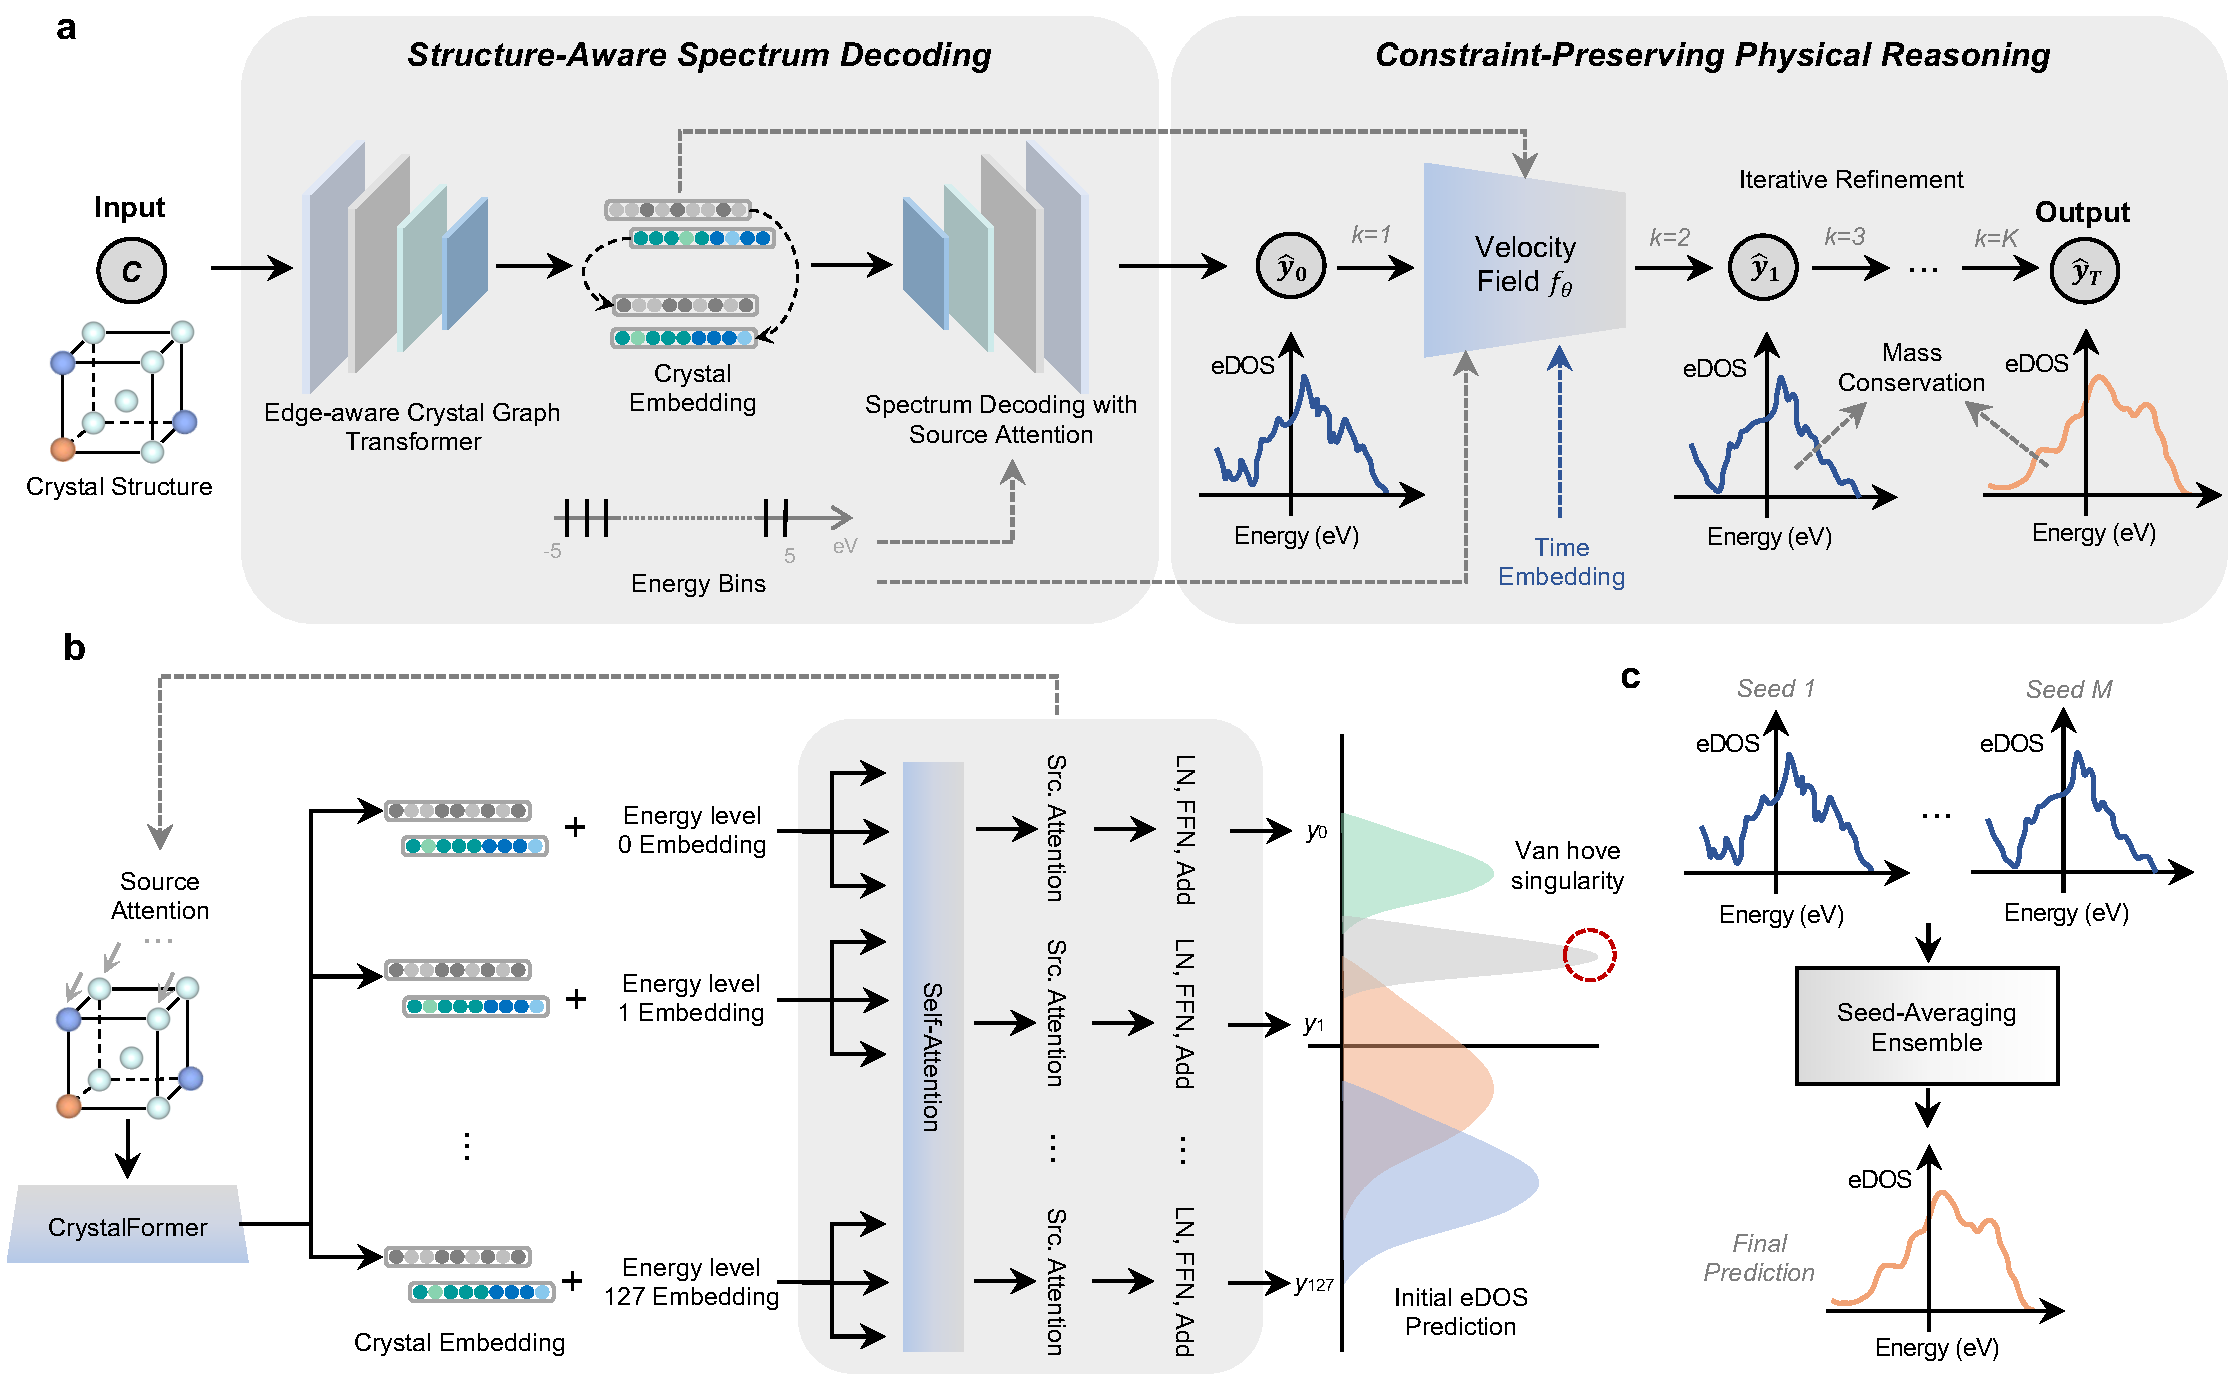
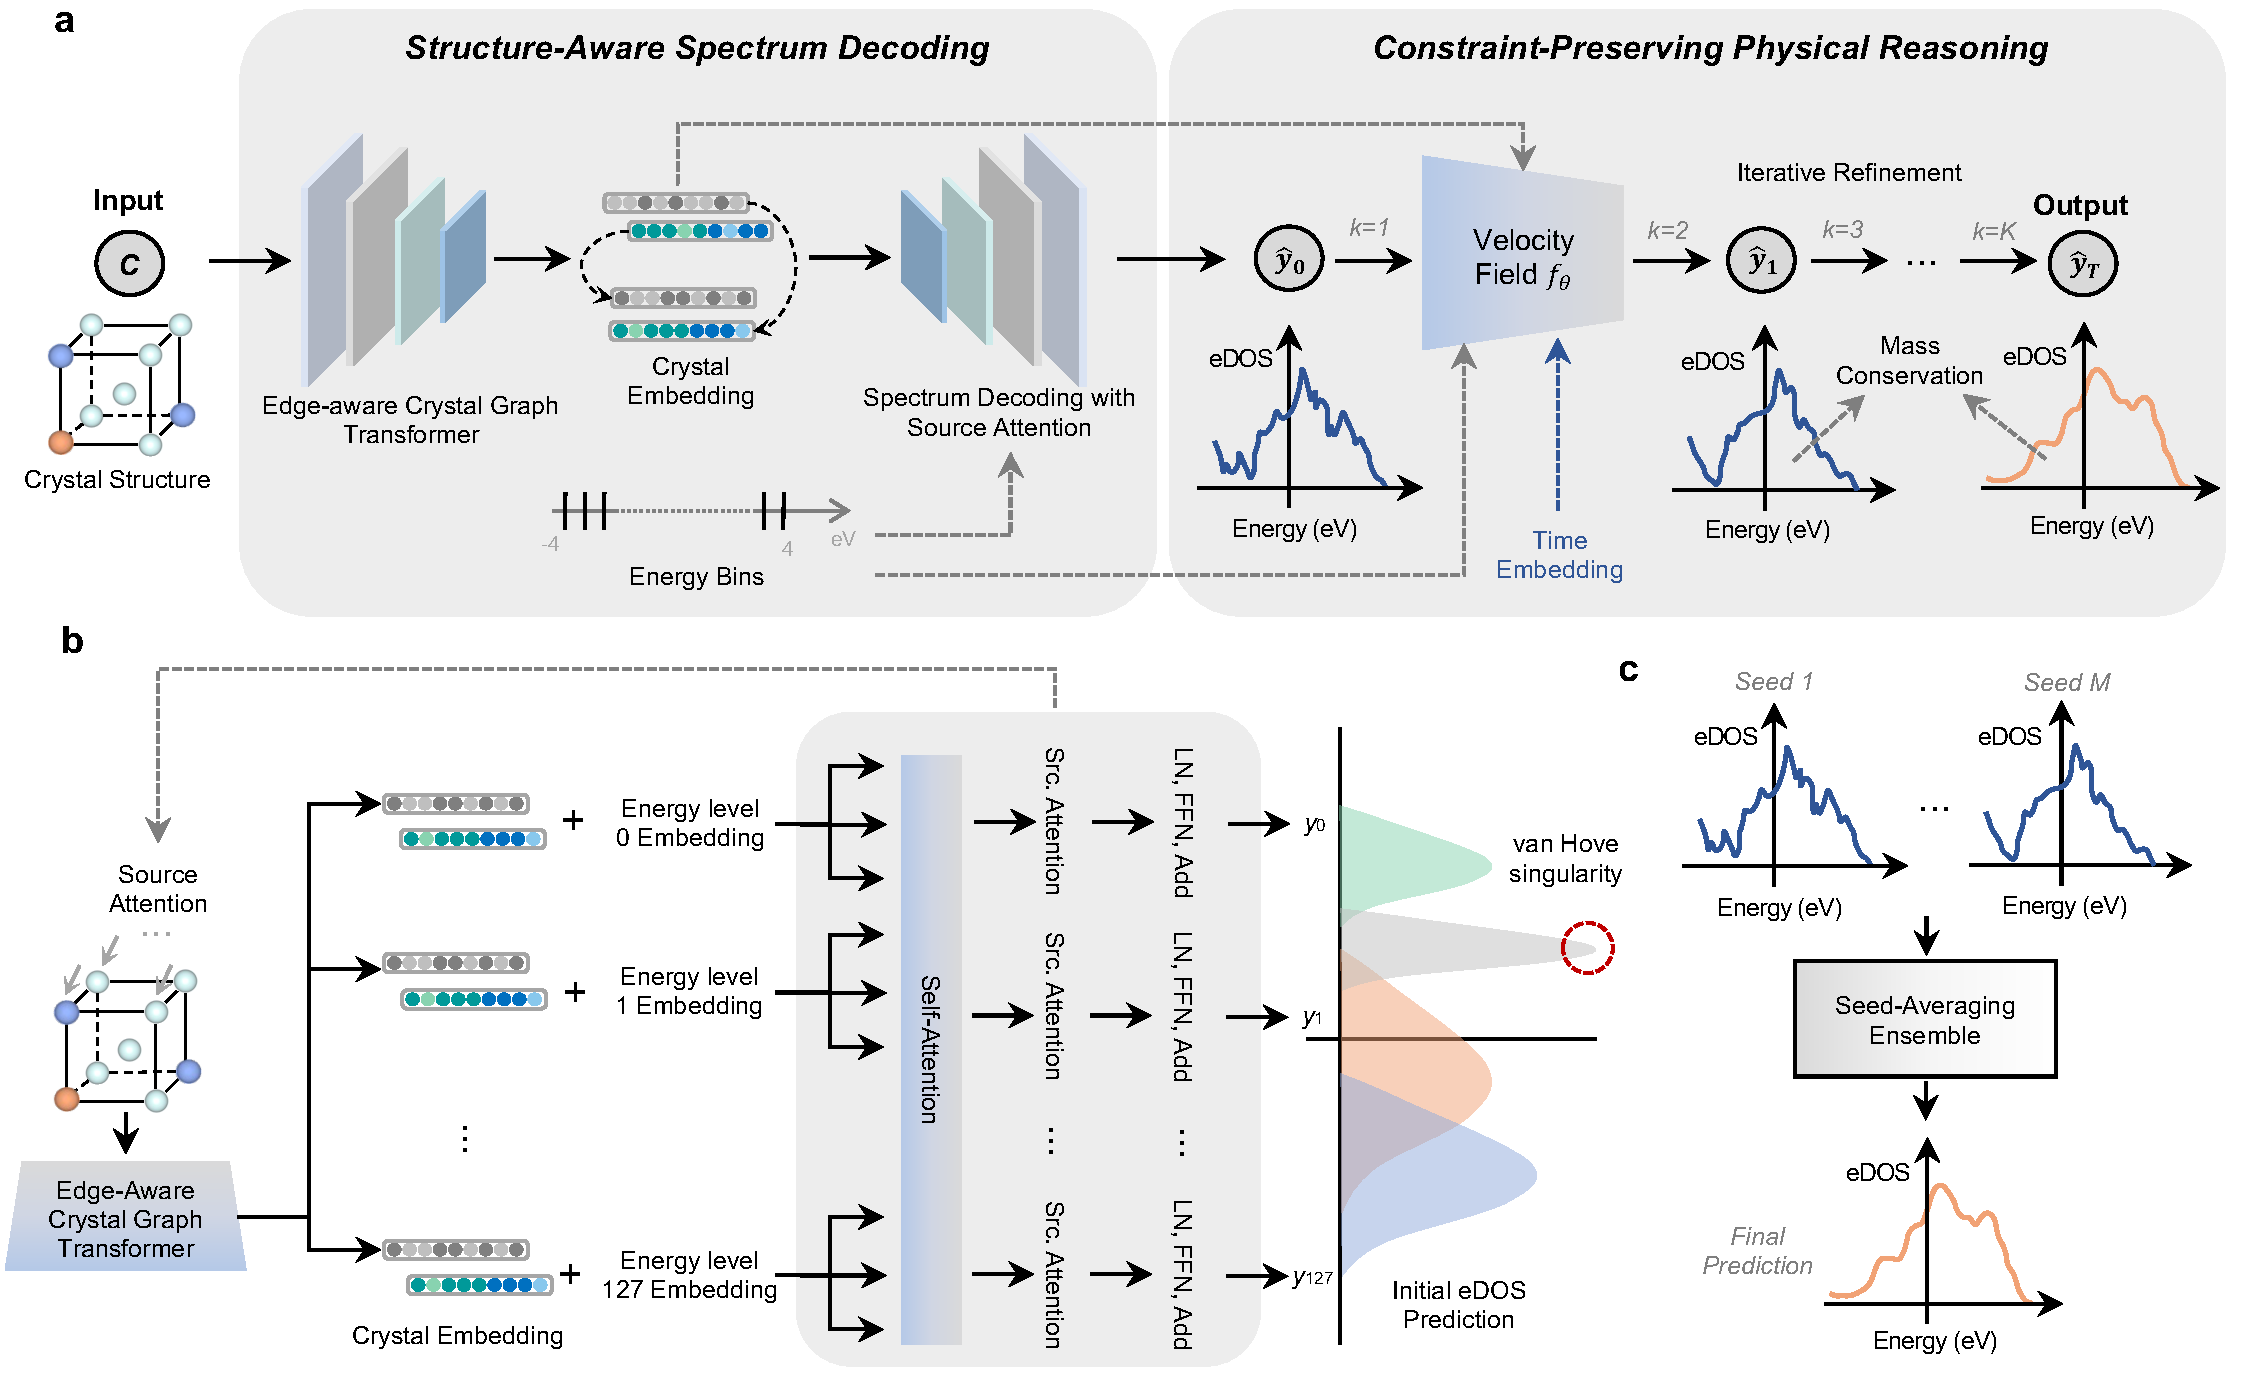
Sync to revised paper; add interactive 3D crystal-structure viewer
Numbers / figures (rebuilt manuscript):
- At a glance: VB-gap identification precision 0.915 -> 0.904
  (Table tab:vb_summary); VB-gap discovery MCC +48% -> +18.6%
  (0.434 vs Mat2Spec 0.366, the paper's stated relative gain).
- Re-rendered Figure 1 (architecture) and Figure 3 (VB-gap discovery)
  from the updated source PDFs at 300 dpi.

3D structure viewer (3Dmol.js):
- Interactive demo: each eDOS/phDOS entry now shows its crystal beside
  the spectrum (two-column viewer); the panel auto-hides on case-study
  tabs that carry no structure, so the DOS plot spans full width.
- "Try it on your structure": uploaded CIF/POSCAR is rendered in 3D
  immediately on selection, alongside the predicted DOS.
- Structures embedded in data/structures.js (window.DDR_STRUCTURES,
  148 CIFs, 153 KB) so the viewer works offline (file://), matching
  the no-fetch design of data.js; prepare_data.py emits it.

diff --git a/assets/app.js b/assets/app.js
@@ -154,6 +154,76 @@ function renderPlot(m) {
   Plotly.react(el.plot, traces, layout, config);
 }
 
+/* ---------- 3D crystal structure (3Dmol) ----------
+ * Structures are embedded in data/structures.js (window.DDR_STRUCTURES, keyed
+ * by material id = mp-id) so the viewer works offline (file://), matching the
+ * no-fetch design of data.js. Only the eDOS/phDOS benchmark entries carry a
+ * CIF; case-study tabs have none, so the structure panel is hidden for them. */
+const STRUCTURES = (typeof window !== "undefined" && window.DDR_STRUCTURES) || {};
+let demoViewer = null;
+let uploadViewer = null;
+
+function has3Dmol() { return typeof window !== "undefined" && !!window.$3Dmol; }
+
+function newViewer(host) {
+  return window.$3Dmol.createViewer(host, { backgroundColor: "white", antialias: true });
+}
+
+function styleCrystal(viewer) {
+  viewer.setStyle({}, { sphere: { scale: 0.33 }, stick: { radius: 0.14 } });
+  try { viewer.addUnitCell(); } catch (_) { /* no cell params */ }
+  viewer.zoomTo();
+  viewer.zoom(1.1);
+  viewer.render();
+  viewer.resize();
+}
+
+// Load `text` (CIF/VASP) into a viewer bound to `host`. Returns the viewer, or
+// null with an empty-state message painted into host. `reuse` is the viewer to
+// clear and reuse (its canvas stays in host); pass null to create a fresh one.
+function loadStructure(host, text, format, reuse, emptyMsg) {
+  if (!host) return null;
+  if (!has3Dmol() || !text) {
+    host.innerHTML = `<div class="struct-empty">${!has3Dmol() ? "3D viewer failed to load." : (emptyMsg || "3D structure not available for this entry.")}</div>`;
+    return null;
+  }
+  let viewer = reuse;
+  if (viewer) { viewer.clear(); }
+  else { host.innerHTML = ""; viewer = newViewer(host); }
+
+  const tryFormats = format === "vasp" ? ["vasp", "cif"] : ["cif", "vasp"];
+  let ok = false;
+  for (const fmt of tryFormats) {
+    viewer.clear();
+    let model = null;
+    try { model = viewer.addModel(text, fmt); } catch (_) { model = null; }
+    const atoms = model ? model.selectedAtoms({}) : [];
+    if (atoms.length) { ok = true; break; }
+  }
+  if (!ok) {
+    host.innerHTML = `<div class="struct-empty">Couldn't parse this structure for preview.</div>`;
+    return null;
+  }
+  styleCrystal(viewer);
+  return viewer;
+}
+
+function showDemoStructure(m) {
+  const host = document.getElementById("struct-view");
+  const cap = document.getElementById("struct-cap");
+  if (!host) return;
+  const cif = m && STRUCTURES[m.id];
+  demoViewer = loadStructure(host, cif, "cif", demoViewer, "3D structure not bundled for this case study.");
+  if (cap) cap.style.visibility = demoViewer ? "visible" : "hidden";
+}
+
+function applyStructLayout() {
+  const body = document.querySelector(".viewer-body");
+  if (!body) return;
+  const has = dataset().materials.some((m) => STRUCTURES[m.id]);
+  body.classList.toggle("has-struct", has);
+}
+
 /* ---------- meta ---------- */
 
 function mpLink(m) {
@@ -192,6 +262,7 @@ function select(id) {
   if (!m) return;
   renderMeta(m);
   renderPlot(m);
+  showDemoStructure(m);
   el.list.querySelectorAll(".mat-item").forEach((b) => {
     const on = b.dataset.id === id;
     b.classList.toggle("is-active", on);
@@ -231,6 +302,7 @@ function defaultSelection() {
 }
 
 function refresh() {
+  applyStructLayout();
   renderList();
   const id = defaultSelection();
   if (id) select(id);
@@ -262,6 +334,36 @@ function setCtaLink(elm, url, labelText) {
 }
 
 /* ---------- upload & predict ---------- */
+
+function readFileText(file) {
+  return new Promise((resolve, reject) => {
+    const r = new FileReader();
+    r.onload = () => resolve(r.result);
+    r.onerror = () => reject(r.error || new Error("read failed"));
+    r.readAsText(file);
+  });
+}
+
+// Guess 3Dmol format from filename/content (CIF vs VASP POSCAR/CONTCAR).
+function guessFormat(name, text) {
+  const n = (name || "").toLowerCase();
+  if (n.endsWith(".cif") || /_cell_length|_atom_site/.test(text)) return "cif";
+  if (n.endsWith(".vasp") || n.endsWith(".poscar") || /poscar|contcar/.test(n)) return "vasp";
+  const lines = (text || "").split(/\r?\n/);
+  if (lines.length > 7 && /^\s*[-+]?\d*\.?\d+\s*$/.test(lines[1] || "")) return "vasp"; // scale on line 2
+  return "cif";
+}
+
+async function showUploadStructure(file) {
+  const wrap = document.getElementById("upload-struct-wrap");
+  const host = document.getElementById("upload-struct");
+  if (!wrap || !host) return;
+  if (!file) { wrap.hidden = true; return; }
+  wrap.hidden = false;
+  let text;
+  try { text = await readFileText(file); } catch (_) { wrap.hidden = true; return; }
+  uploadViewer = loadStructure(host, text, guessFormat(file.name, text), uploadViewer);
+}
 
 function plotUpload(data) {
   const node = document.getElementById("upload-plot");
@@ -305,6 +407,8 @@ function initUpload() {
     fileLabel.textContent = file ? file.name : "";
     btn.disabled = !(file && PREDICT_API);
     if (file && !PREDICT_API) setStatus(`Selected ${file.name} — endpoint not connected yet.`, "muted");
+    plot.hidden = true;            // clear any previous prediction
+    showUploadStructure(file);     // immediate 3D preview of the uploaded crystal
   }
 
   dz.addEventListener("click", () => input.click());
@@ -381,6 +485,15 @@ function init() {
   state.kind = (wanted && data.datasets[wanted]) ? wanted : data.order[0];
   setTabUI(state.kind);
   refresh();
+
+  let resizeTimer = null;
+  window.addEventListener("resize", () => {
+    clearTimeout(resizeTimer);
+    resizeTimer = setTimeout(() => {
+      if (demoViewer) try { demoViewer.resize(); } catch (_) {}
+      if (uploadViewer) try { uploadViewer.resize(); } catch (_) {}
+    }, 150);
+  });
 }
 
 document.addEventListener("DOMContentLoaded", init);

diff --git a/assets/styles.css b/assets/styles.css
@@ -242,6 +242,32 @@ h1, h2, h3 { line-height: 1.2; letter-spacing: -0.01em; }
 .mat-meta { margin: 2px 0 0; color: var(--muted); font-size: 0.9rem; }
 .mat-meta a { font-weight: 600; }
 .plot { width: 100%; height: 440px; }
+
+/* DOS plot + 3D structure side by side; collapses to one column when narrow
+   or when the active dataset carries no structures (.has-struct toggled in JS). */
+.viewer-body { display: grid; grid-template-columns: 1fr; gap: 18px; align-items: start; }
+.viewer-body.has-struct { grid-template-columns: minmax(0, 1.55fr) minmax(0, 1fr); }
+.viewer-body:not(.has-struct) .struct { display: none; }
+@media (max-width: 720px) { .viewer-body.has-struct { grid-template-columns: 1fr; } }
+
+/* ---------- 3D crystal structure (3Dmol) ---------- */
+.struct { margin: 0; min-width: 0; }
+.struct-view {
+  position: relative;
+  width: 100%;
+  height: 380px;
+  border: 1px solid var(--line);
+  border-radius: var(--radius);
+  background: #fff;
+  overflow: hidden;
+}
+.struct-view canvas { border-radius: var(--radius); }
+.struct-cap { font-size: 0.78rem; color: var(--faint); margin: 8px 0 0; text-align: center; }
+.struct-empty {
+  display: flex; align-items: center; justify-content: center;
+  height: 100%; padding: 0 18px;
+  color: var(--faint); font-size: 0.85rem; text-align: center;
+}
 .mat-metrics { margin: 10px 0 0; font-size: 0.9rem; color: var(--muted); }
 .mat-metrics b { color: var(--accent-dark); }
 .metric-chip { display: inline-block; font-variant-numeric: tabular-nums; }
@@ -277,6 +303,13 @@ h1, h2, h3 { line-height: 1.2; letter-spacing: -0.01em; }
 .predict-status.muted { color: var(--faint); }
 .predict-status.error { color: var(--accent-dark); }
 #upload-plot { height: 440px; }
+
+/* Uploaded structure preview + predicted-DOS plot: side by side when both are
+   present, centered when only the structure preview is shown. */
+.upload-results { display: flex; flex-wrap: wrap; gap: 18px; justify-content: center; align-items: stretch; margin-top: 12px; }
+.upload-results .struct { flex: 0 0 320px; max-width: 100%; }
+.upload-results #upload-plot { flex: 1 1 380px; min-width: 280px; width: auto; }
+.upload-results .struct-view { height: 320px; }
 
 /* ---------- Footer ---------- */
 .footer { padding: 56px 0 72px; border-top: 1px solid var(--line); }

diff --git a/index.html b/index.html
@@ -79,8 +79,8 @@
       <div class="stats">
         <div class="stat"><span class="stat-num">&#8595;13.3%</span><span class="stat-label">eDOS prediction <em>(MSE vs. best baseline)</em></span></div>
         <div class="stat"><span class="stat-num">&#8595;20%</span><span class="stat-label">phDOS prediction <em>(MSE vs. best baseline)</em></span></div>
-        <div class="stat"><span class="stat-num">0.915</span><span class="stat-label">VB-gap identification <em>(precision)</em></span></div>
-        <div class="stat"><span class="stat-num">+48%</span><span class="stat-label">VB-gap discovery <em>(MCC vs. best baseline)</em></span></div>
+        <div class="stat"><span class="stat-num">0.904</span><span class="stat-label">VB-gap identification <em>(precision)</em></span></div>
+        <div class="stat"><span class="stat-num">+18.6%</span><span class="stat-label">VB-gap discovery <em>(MCC vs. best baseline)</em></span></div>
         <div class="stat"><span class="stat-num">~10<sup>7</sup>&times;</span><span class="stat-label">faster than DFT <em>(~10.5&nbsp;ms / crystal)</em></span></div>
         <div class="stat"><span class="stat-num">~25%</span><span class="stat-label">of training data to beat the strongest baseline</span></div>
       </div>
@@ -117,7 +117,7 @@
   <section class="section alt" id="demo">
     <div class="wrap">
       <h2>Interactive demo</h2>
-      <p class="lead">Explore real DeepDOSReasoner predictions against DFT ground truth — across the electronic- and phonon-DOS benchmarks (with the Mat2Spec and DOSTransformer baselines) and three paper case studies. Click a legend entry to toggle a curve, hover for values, and pick any material from the list.</p>
+      <p class="lead">Explore real DeepDOSReasoner predictions against DFT ground truth — across the electronic- and phonon-DOS benchmarks (with the Mat2Spec and DOSTransformer baselines) and three paper case studies. Click a legend entry to toggle a curve, hover for values, and pick any material from the list. Each benchmark entry also shows its crystal structure in an interactive 3D viewer beside the spectrum.</p>
 
       <div class="tabs" id="tabs" role="tablist" aria-label="Dataset"></div>
 
@@ -132,7 +132,13 @@
             <h3 id="mat-title">—</h3>
             <p id="mat-meta" class="mat-meta"></p>
           </div>
-          <div id="plot" class="plot" aria-label="Density of states plot"></div>
+          <div class="viewer-body">
+            <div id="plot" class="plot" aria-label="Density of states plot"></div>
+            <figure class="struct">
+              <div id="struct-view" class="struct-view" aria-label="3D crystal structure"></div>
+              <figcaption id="struct-cap" class="struct-cap">Drag to rotate · scroll to zoom</figcaption>
+            </figure>
+          </div>
           <p id="mat-metrics" class="mat-metrics"></p>
         </div>
       </div>
@@ -160,7 +166,13 @@
           <button id="predict-btn" class="btn btn-primary" type="button" disabled>Predict DOS</button>
         </div>
         <p id="predict-status" class="predict-status"></p>
-        <div id="upload-plot" class="plot" hidden></div>
+        <div class="upload-results">
+          <figure class="struct" id="upload-struct-wrap" hidden>
+            <div id="upload-struct" class="struct-view"></div>
+            <figcaption class="struct-cap">Uploaded structure · drag to rotate</figcaption>
+          </figure>
+          <div id="upload-plot" class="plot" hidden></div>
+        </div>
       </div>
     </div>
   </section>
@@ -187,7 +199,9 @@
 </footer>
 
 <script src="https://cdn.plot.ly/plotly-2.35.2.min.js" charset="utf-8"></script>
+<script src="https://cdn.jsdelivr.net/npm/3dmol@2.4.2/build/3Dmol-min.js"></script>
 <script src="data/data.js"></script>
+<script src="data/structures.js"></script>
 <script src="assets/app.js"></script>
 </body>
 </html>

diff --git a/tools/prepare_data.py b/tools/prepare_data.py
@@ -234,6 +234,17 @@ def main():
             shutil.copy2(cif, STRUCT_OUT / cif.name); n += 1
     print(f"[cif] copied {n} structures -> {STRUCT_OUT.relative_to(ROOT)}")
 
+    # embed CIF text in data/structures.js (window.DDR_STRUCTURES) so the 3D
+    # crystal viewer (3Dmol) works offline, like data.js. Keyed by material id.
+    structures = {}
+    for cif in sorted(STRUCT_OUT.glob("*.cif")):
+        structures[cif.stem] = cif.read_text()
+    struct_js = DATA_DIR / "structures.js"
+    struct_js.write_text(
+        "window.DDR_STRUCTURES = " + json.dumps(structures, separators=(",", ":")) + ";\n")
+    print(f"[struct] wrote {struct_js.relative_to(ROOT)} "
+          f"({len(structures)} structures, {struct_js.stat().st_size/1024:.0f} KB)")
+
 
 if __name__ == "__main__":
     main()